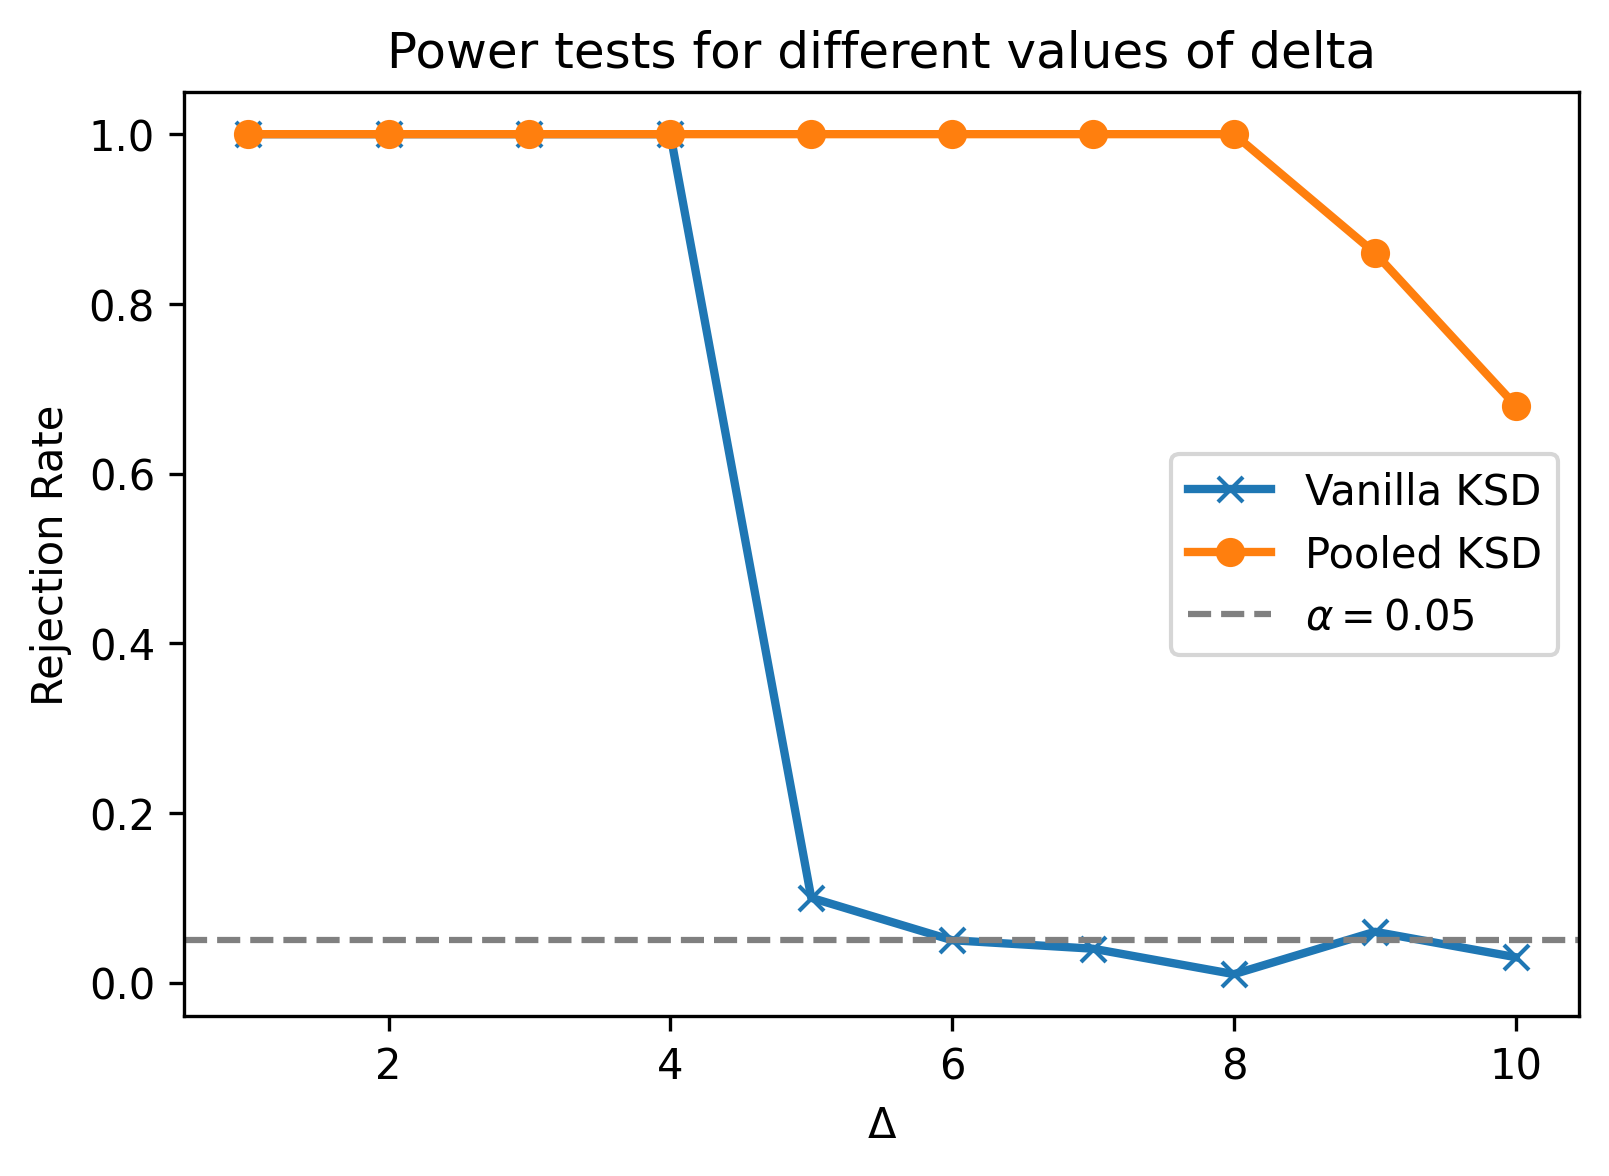
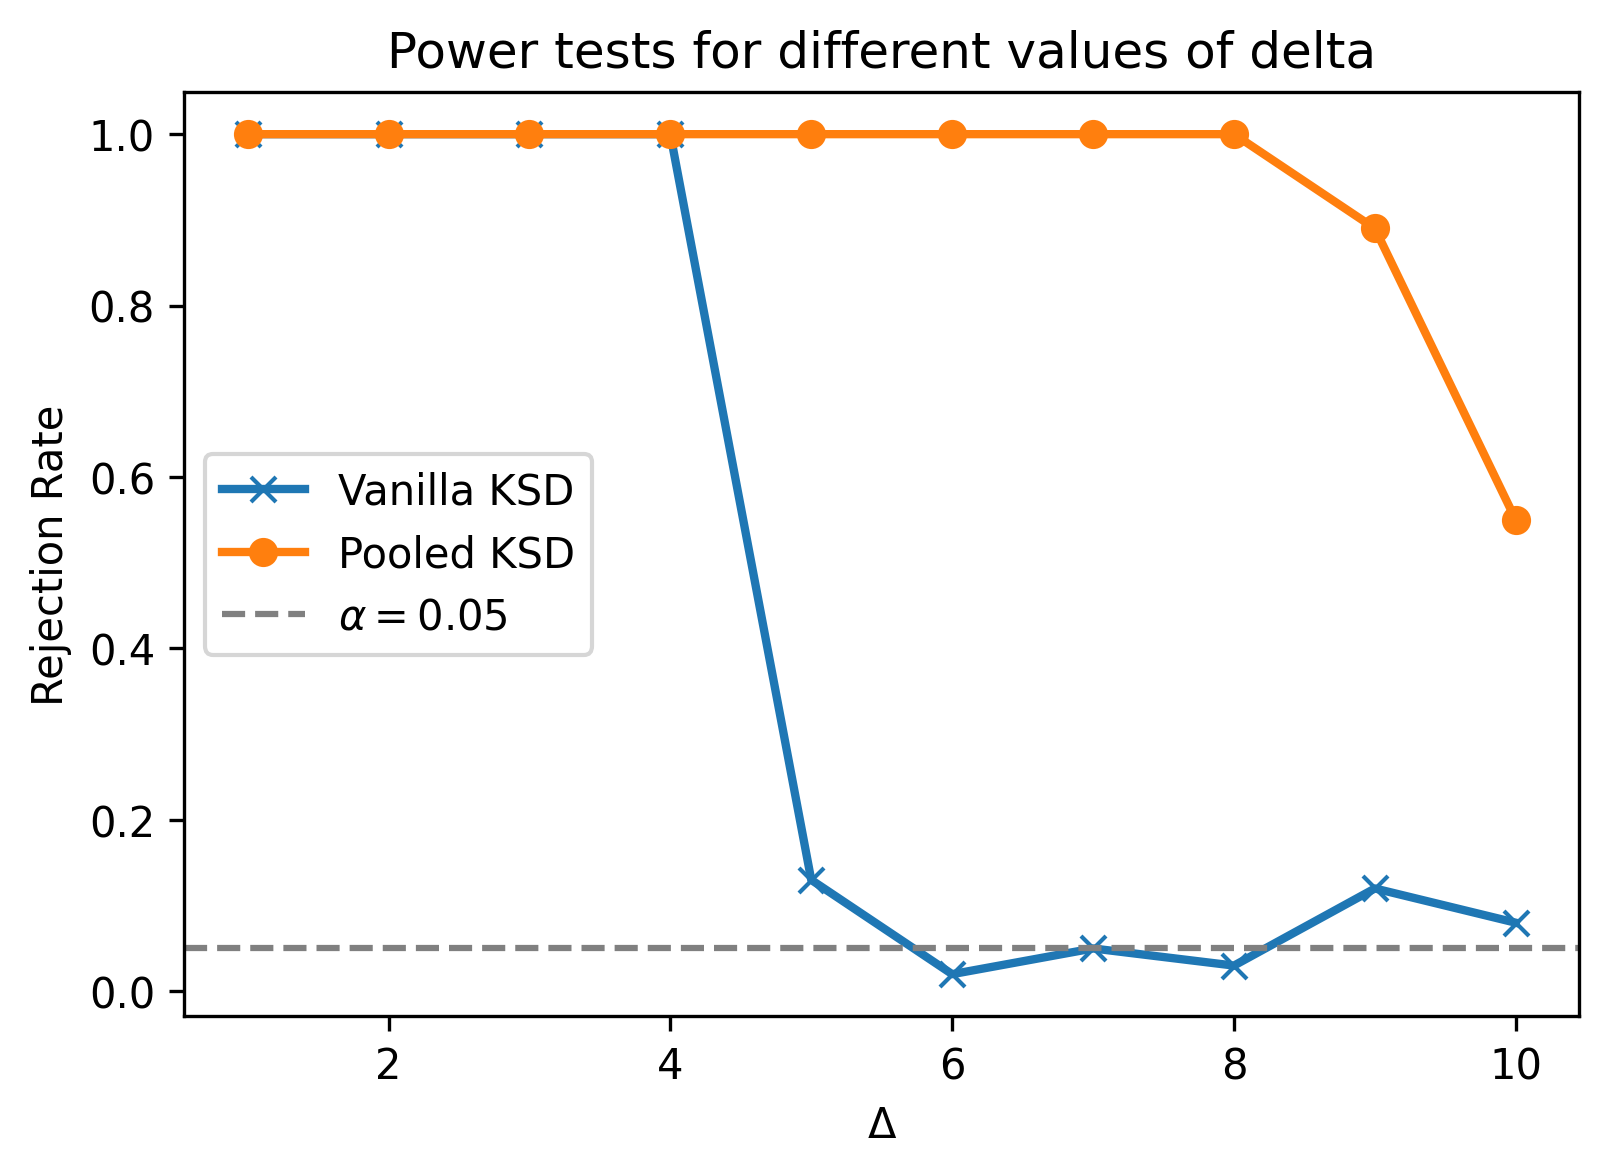
removed the duplicate rejection rate

diff --git a/experiments/power_plots_pooled_ksd/power_weights_compare.py b/experiments/power_plots_pooled_ksd/power_weights_compare.py
@@ -78,7 +78,7 @@ for weight in weight_list:
     # # p_values_ksd.append(p_value.item())
     # rejections.append(reject.item())
 
-  rejection_rates_pooled_ksd.append(np.mean(rejections))
+  # rejection_rates_pooled_ksd.append(np.mean(rejections))
 
 plt.figure(figsize=(6,4))
 plt.plot(weight_list,rejection_rates_ksd,marker='x',linewidth=2,label='Vanilla KSD')